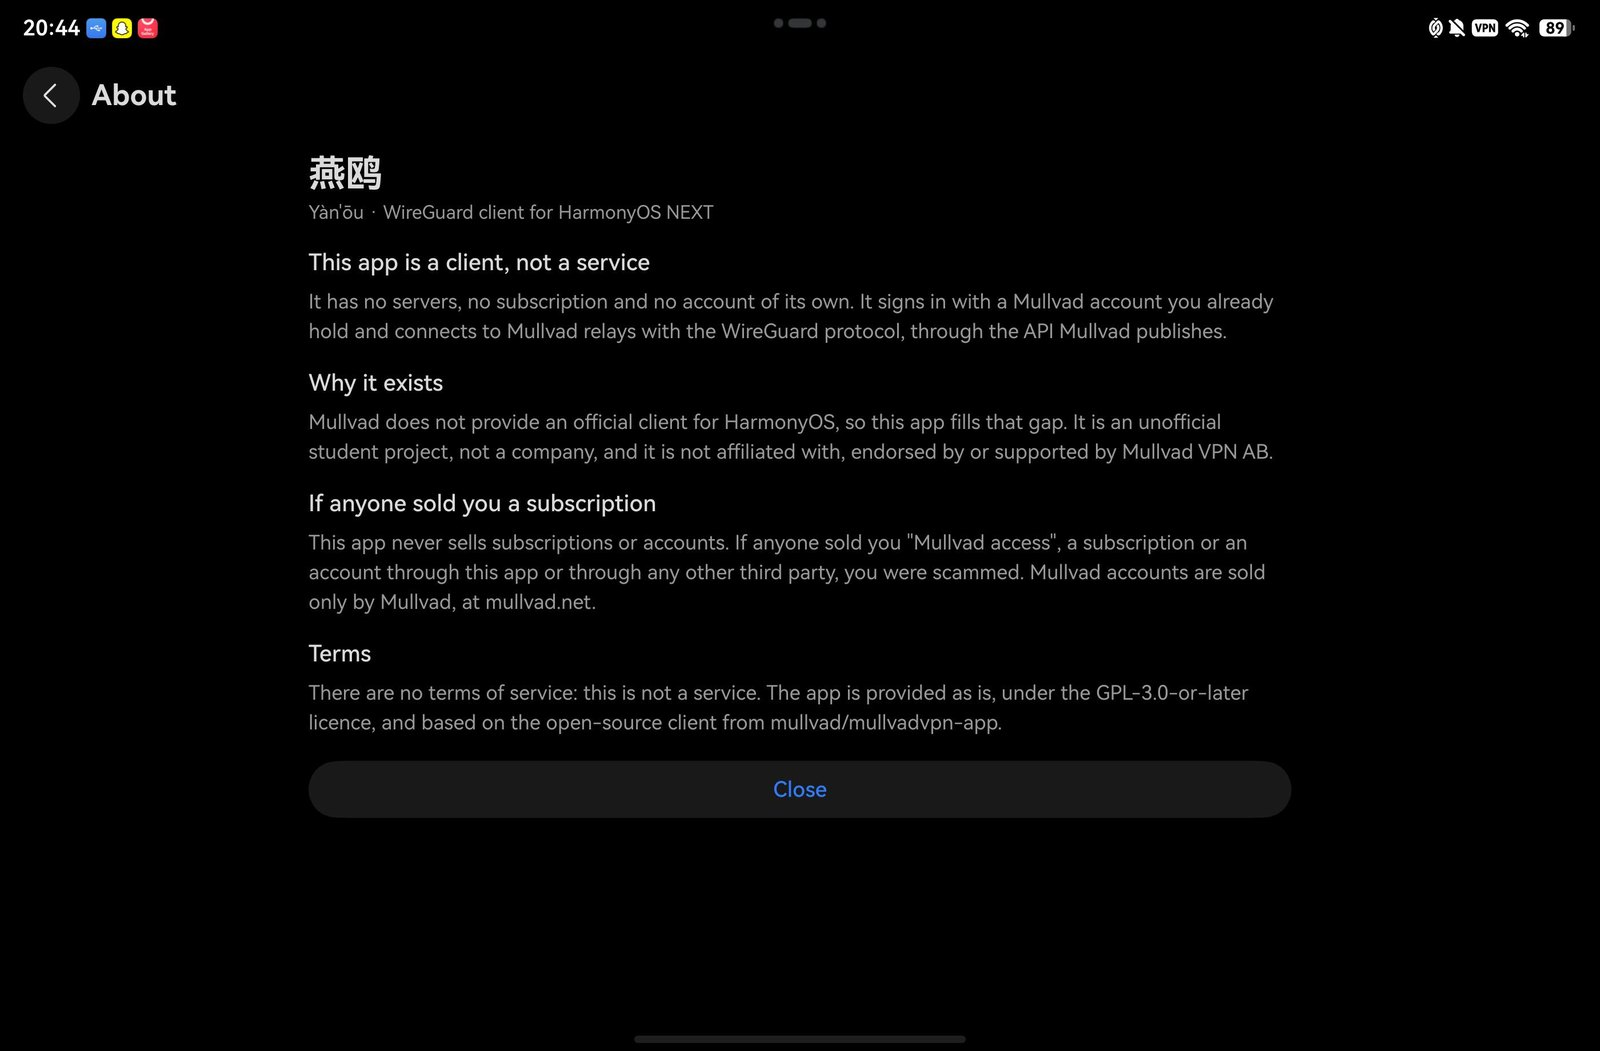
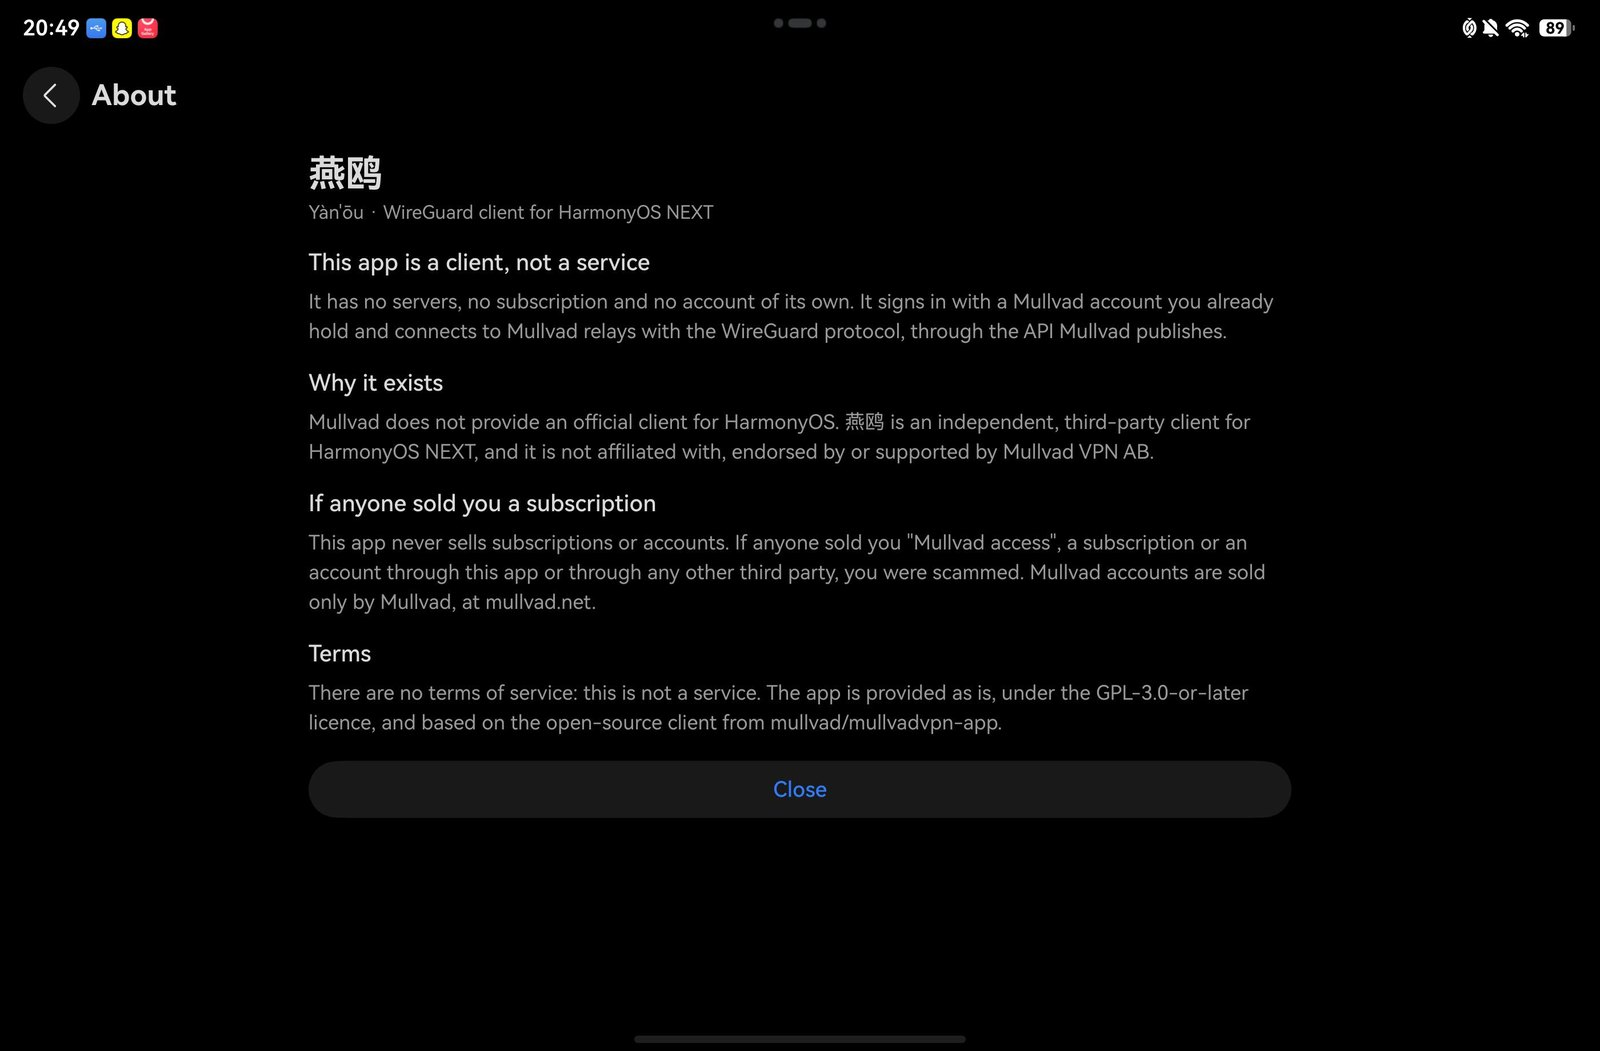
docs: tighter introduction, and no student framing
The opening is now four short paragraphs: what the app is, that it is a
client only, that it is an independent third-party client for a platform
Mullvad does not support, and the scam warning. The 'student project'
wording is gone from the README, the About screen and the repository
description.

Re-took the About screenshot so the README image matches the shipped copy.

Changed region(s): [[0.1875, 0.3958, 0.7812, 0.4567], [0.875, 0.0, 0.9375, 0.0609]]

diff --git a/README.md b/README.md
@@ -1,21 +1,21 @@
 # 燕鸥 (Yàn'ōu)
 
-燕鸥 is a **WireGuard client** for HarmonyOS NEXT that connects to Mullvad VPN. It is a
-client and nothing else: it runs no servers, sells no subscription and has no account of
-its own. You sign in with a Mullvad account you already hold; the app registers a WireGuard
-device with `api.mullvad.net`, downloads Mullvad's signed relay list, and routes device
-traffic through a selected relay using the system VPN extension. The relays, the account
-and its five-device limit all belong to Mullvad.
+**燕鸥 is a WireGuard client for HarmonyOS NEXT that connects to Mullvad VPN.** It uses a
+Mullvad account you already hold: the app registers a WireGuard device with Mullvad's API,
+downloads the signed relay list, and routes device traffic through the selected relay with
+the system VPN extension.
 
-Mullvad does not provide an official client for HarmonyOS, which is why this app exists. It
-is an unofficial **student project, not a company**, and it is not affiliated with,
-endorsed by or supported by Mullvad VPN AB. "Mullvad" is used only to describe the service
-this client connects to.
+It is a client only. It runs no servers, sells no subscriptions and holds no accounts; the
+relays, the account and its five-device limit belong to Mullvad.
 
-**If anyone sold you a subscription, an account or "Mullvad access" through this app or
-through any third party, you were scammed.** This app never sells anything. Mullvad accounts
-are sold only by Mullvad, at <https://mullvad.net>. There are no terms of service here,
-because there is no service: use it with your own account and at your own risk.
+Mullvad does not provide an official client for HarmonyOS. 燕鸥 is an independent,
+third-party client for that platform, and it is not affiliated with, endorsed by or
+supported by Mullvad VPN AB.
+
+Mullvad accounts are sold only by Mullvad, at <https://mullvad.net>. If anyone sold you a
+subscription, an account or "Mullvad access" through this app or through any third party,
+you were scammed. The app sells nothing and has no terms of service, because it is not a
+service.
 
 The client handles two kinds of filtered network. When `api.mullvad.net` is DNS-poisoned,
 the API is reached through Mullvad's domain-fronting protocol rather than a direct HTTPS
